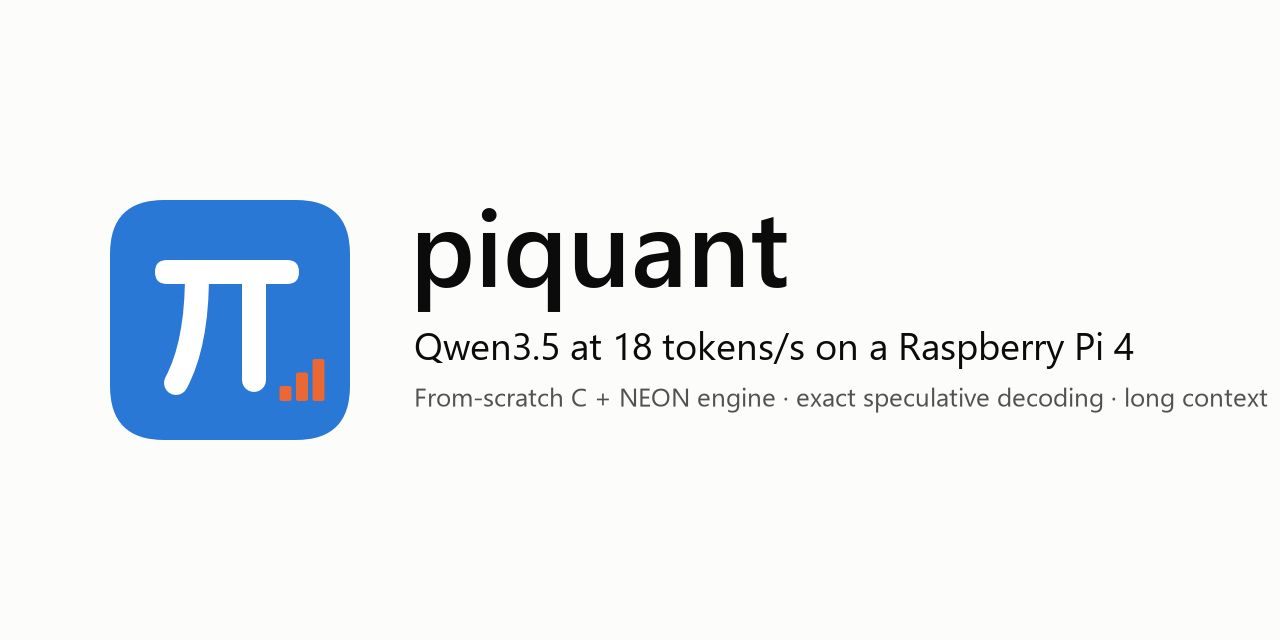
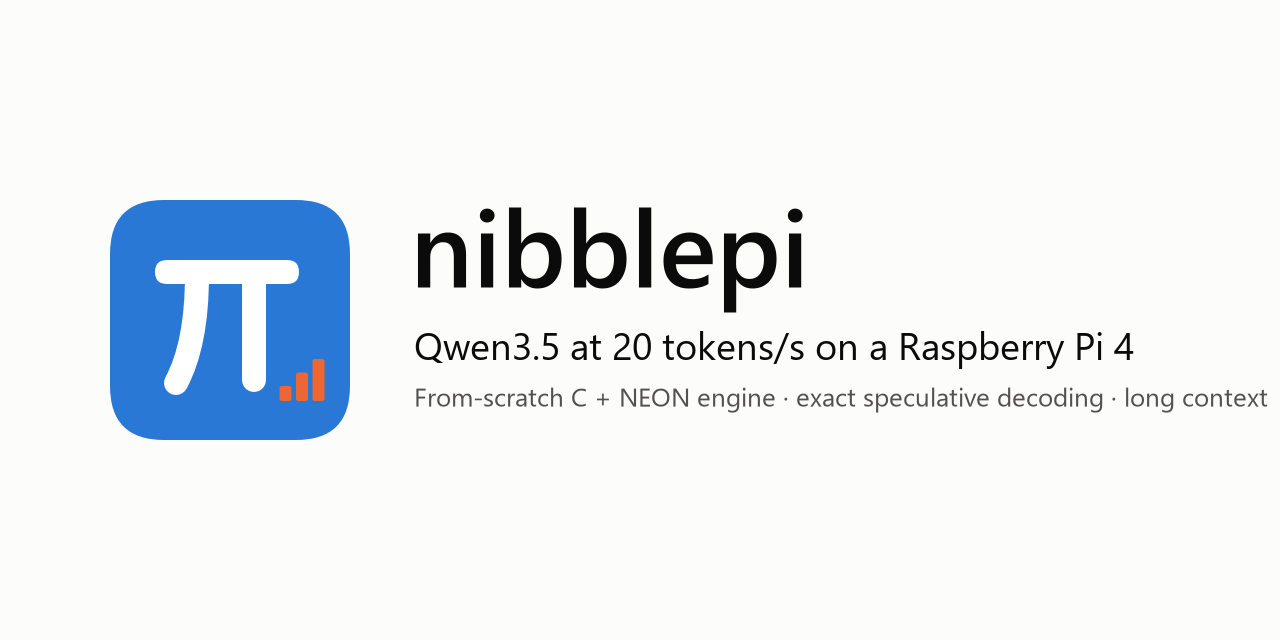
docs: rename the project to nibblepi (engine and package stay pinfer)
A nibble is 4 bits, the size of the weights, and pi is the board. The repository is now
github.com/Optimizer077/nibblepi (GitHub redirects the old URL). README title, logo alt text,
social banner (also 20 tok/s), release notes and contributing guide updated; the README footer
adds the Raspberry Pi trademark notice.

Changed region(s): [[0.3125, 0.3125, 0.625, 0.5], [0.4688, 0.5, 0.5312, 0.5625]]

diff --git a/tools/make_logo.py b/tools/make_logo.py
@@ -1,4 +1,4 @@
-"""Render the piquant logo (docs/assets/logo.svg, logo-dark.svg, logo.png) and the social banner.
+"""Render the nibblepi logo (docs/assets/logo.svg, logo-dark.svg, logo.png) and the social banner.
 
 The mark is a white pi on a rounded square with three stepped bars: "pi" + "quant" (quantization
 levels). Shapes only, no text, so the SVG renders the same everywhere; colours are the figure
@@ -74,8 +74,8 @@ def banner() -> None:
     fig.patch.set_facecolor("#fcfcfb")
     draw_mark(ax, tile, ink, accent, x0=110, y0=200, s=1.5)
     font = {"family": ["Segoe UI", "DejaVu Sans", "sans-serif"]}
-    ax.text(410, 380, "piquant", fontsize=78, fontweight="semibold", color="#0b0b0b", va="center", **font)
-    ax.text(414, 290, "Qwen3.5 at 18 tokens/s on a Raspberry Pi 4", fontsize=27, color="#0b0b0b",
+    ax.text(410, 380, "nibblepi", fontsize=78, fontweight="semibold", color="#0b0b0b", va="center", **font)
+    ax.text(414, 290, "Qwen3.5 at 20 tokens/s on a Raspberry Pi 4", fontsize=27, color="#0b0b0b",
             va="center", **font)
     ax.text(414, 240, "From-scratch C + NEON engine · exact speculative decoding · long context",
             fontsize=19, color="#52514e", va="center", **font)

diff --git a/docs/journal/2026-10-22.md b/docs/journal/2026-10-22.md
@@ -347,3 +347,4 @@ prompt64 (18.64), the default k = 2 was not changed (spec owner's decision, chat
 ideas left: a row-interleaved Q4K layout (new dtype), per-superblock activation scales (opt-in,
 changes numerics), 3 threads for n = 2–3.
 | 15:00–15:45 | **Lead: finalize 0.2.0.** Kernels round merged after Pi gates (`spec-exact-merge6`: 58/58, original 20 with baseline md5s; `ctx-check-merge6` 5/5). Adaptive cap: k ≤ 4 beats k ≤ 3 on prompt64 (20.22 vs 19.78), chat27 (11.10 vs 11.06), copy-edit (21.89 vs 21.01), within 1% on Python code → default `{4, 32768, adaptive, ngram 7}`. Figures and README updated (20 tok/s, prefill 43). Final host tests: golden PASS, pytest 127. Pi `pinfer_run_fast` ← `d48ffda1` (previous `.pre-0.2.0`). Overclock test moved after Cerno (owner: wrap up fast). Cerno agent paused at a checkpoint (both repos committed locally) | `kcap-merge6_20261022_145226.json`, `speed-ab-merge6_*` |
+| 15:20–15:40 | **Lead: README audit and rename.** Results docs brought to the final 0.2.0 numbers (chat table after the cheaper verify pass incl. the default; kernel passes ≤ 7; roofline: prefill 43.2 GOP/s at 21.7 ops/byte, Q4K kernel roof 54.6 GOP/s from `mm2-kbench-final`); live page checked: 22/22 images load. Owner asked for a better name and for data-flow animations (an animation agent is building them). Naming review → **nibblepi** (only candidate free on GitHub / PyPI / npm with no web collisions; "Pi" alone is not restricted by the Raspberry Pi trademark rules, which ask for the trademark notice now in the README footer). Repo renamed `Optimizer077/piquant` → `Optimizer077/nibblepi`; the PyPI name `pinfer` is taken by an unrelated 2016 package (relevant only if we publish to PyPI) | `README.md`, `CHANGELOG.md` |

diff --git a/README.md b/README.md
@@ -1,11 +1,11 @@
 <p align="center">
   <picture>
     <source media="(prefers-color-scheme: dark)" srcset="docs/assets/logo-dark.svg">
-    <img src="docs/assets/logo.svg" alt="piquant logo: the letter pi with three rising quantization steps" width="112">
+    <img src="docs/assets/logo.svg" alt="nibblepi logo: the letter pi with three rising quantization steps" width="112">
   </picture>
 </p>
 
-<h1 align="center">piquant</h1>
+<h1 align="center">nibblepi</h1>
 
 <p align="center">
   <b>Qwen3.5 at 20 tokens/s on a Raspberry Pi 4</b><br>
@@ -30,7 +30,8 @@
   <a href="docs/RESULTS.md">Every number, with sources</a>
 </p>
 
-**piquant** is the project; **pinfer** is its engine and Python package. It runs the hybrid Qwen3.5
+**nibblepi** is the project — a *nibble* is 4 bits, the size of its weights, and *pi* is the board it was
+built for — and **pinfer** is its engine and Python package. It runs the hybrid Qwen3.5
 models (0.8B by default, 2B as an option) on a Raspberry Pi 4 (Cortex-A72, NEON only, 4 GB,
 ~4.2 GB/s of memory bandwidth) with its own 4-bit weight format, NEON kernels and self-speculative
 decoding whose output is token-for-token identical to plain greedy decoding.
@@ -491,3 +492,8 @@ docs/                     design, library guide, journal, pi-state, figures
   and Gemma 4.
 - Open decision: PyPI and a model asset for the release (#9).
 - Reproducing everything from a blank SD card / SSD: [docs/REPRODUCE.md](docs/REPRODUCE.md).
+
+---
+
+<sub>Raspberry Pi is a trademark of Raspberry Pi Ltd. nibblepi is an independent project, not affiliated
+with or endorsed by Raspberry Pi Ltd. Qwen is a model family by the Qwen team, Alibaba Cloud.</sub>

diff --git a/CHANGELOG.md b/CHANGELOG.md
@@ -12,6 +12,13 @@ Details for each day: `docs/journal/YYYY-MM-DD.md`. Pi configuration changes: `d
 
 ## 2026-10-22
 
+### Renamed (lead, 15:35): piquant → **nibblepi**
+- Owner asked for a better name; a naming review checked meaning, collisions (GitHub, PyPI, npm, web)
+  and trademark: `nibblepi` (a nibble = 4 bits, the weight size; pi = the board) was the only candidate
+  with no collision. Repository `github.com/Optimizer077/nibblepi` (GitHub redirects the old URL); the
+  engine and package keep the name `pinfer`. README title, logo alt text, banner, release notes and
+  docs updated; README footer adds the Raspberry Pi trademark notice.
+
 ### Release 0.2.0 (lead, 15:40) — notes in `docs/release-0.2.0.md`
 - Speculative default: adaptive k ≤ 4 with prompt-lookup drafts (ngram 7); on prompt64 20.22 tok/s vs
   19.78 with k ≤ 3 and 18.42 with fixed k = 4 (`kcap-merge6_20261022_145226.json`).

diff --git a/docs/release-0.2.0.md b/docs/release-0.2.0.md
@@ -1,7 +1,7 @@
 # pinfer 0.2.0
 
 The first public release of pinfer, the Raspberry-Pi-4-native inference engine of
-[piquant](https://github.com/Optimizer077/piquant), for the hybrid Qwen3.5 models. Apache-2.0.
+[nibblepi](https://github.com/Optimizer077/nibblepi) (formerly piquant), for the hybrid Qwen3.5 models. Apache-2.0.
 
 ## Highlights (Raspberry Pi 4, 4 GB, 1.5 GHz, Qwen3.5-0.8B Q4K, 4 threads)
 | | 0.1.0 | 0.2.0 |

diff --git a/CONTRIBUTING.md b/CONTRIBUTING.md
@@ -1,4 +1,4 @@
-# Contributing to piquant / pinfer
+# Contributing to nibblepi / pinfer
 
 This project measures one physical board. The rules below keep every number reproducible, every change to
 the Pi reversible, and the engine's output exact. They are the project rules from [CLAUDE.md](CLAUDE.md),
